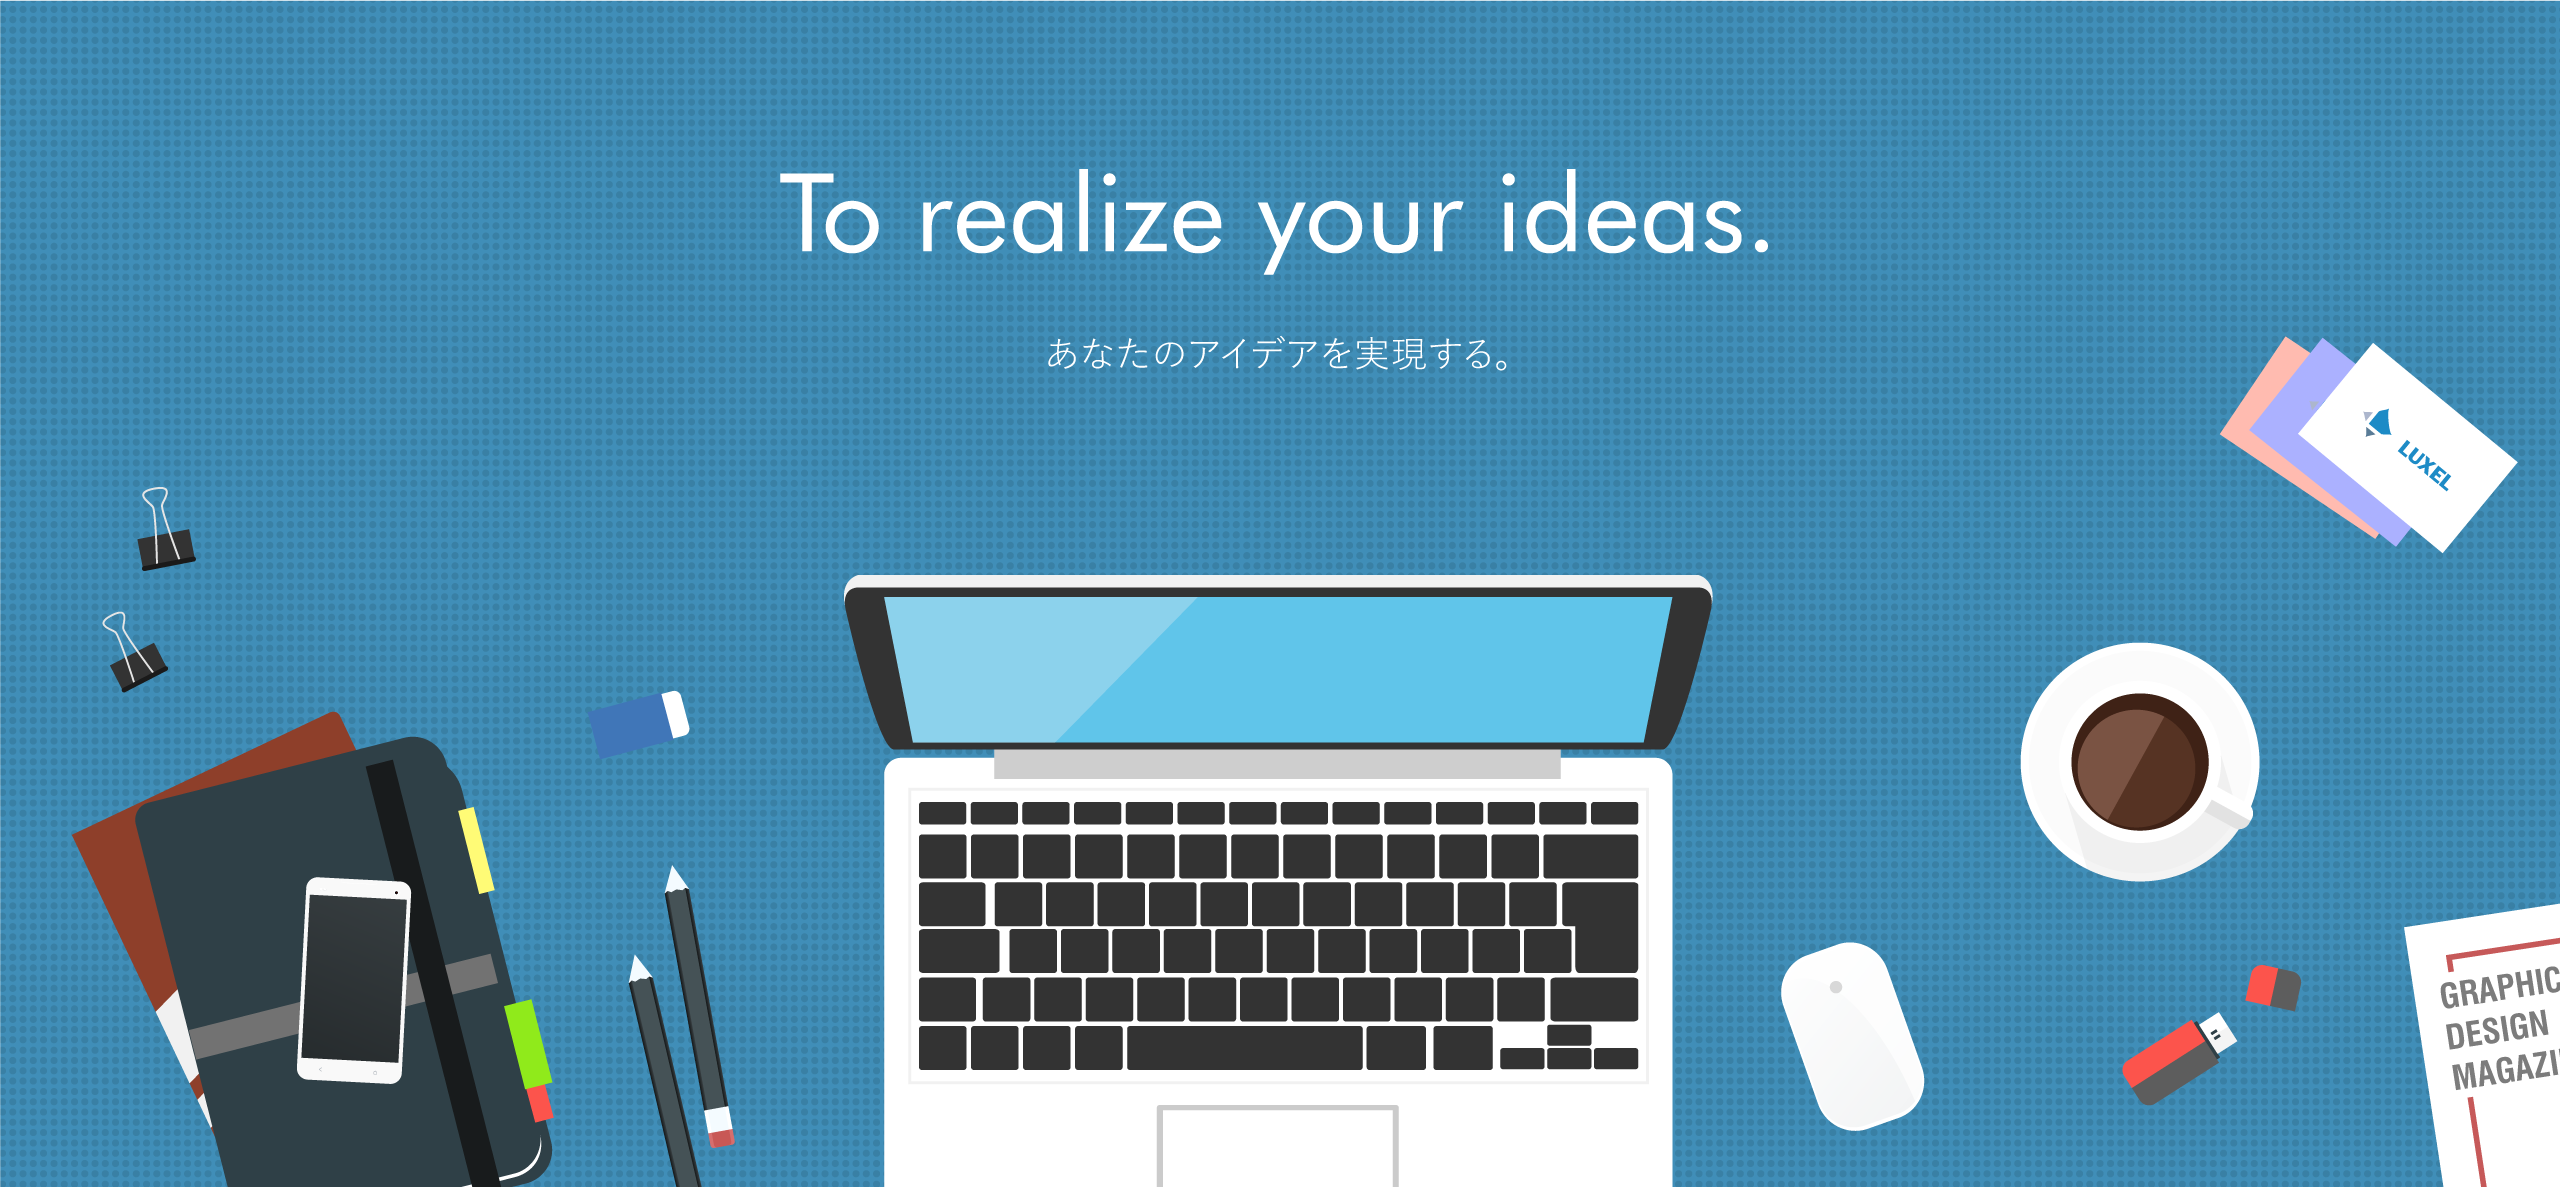
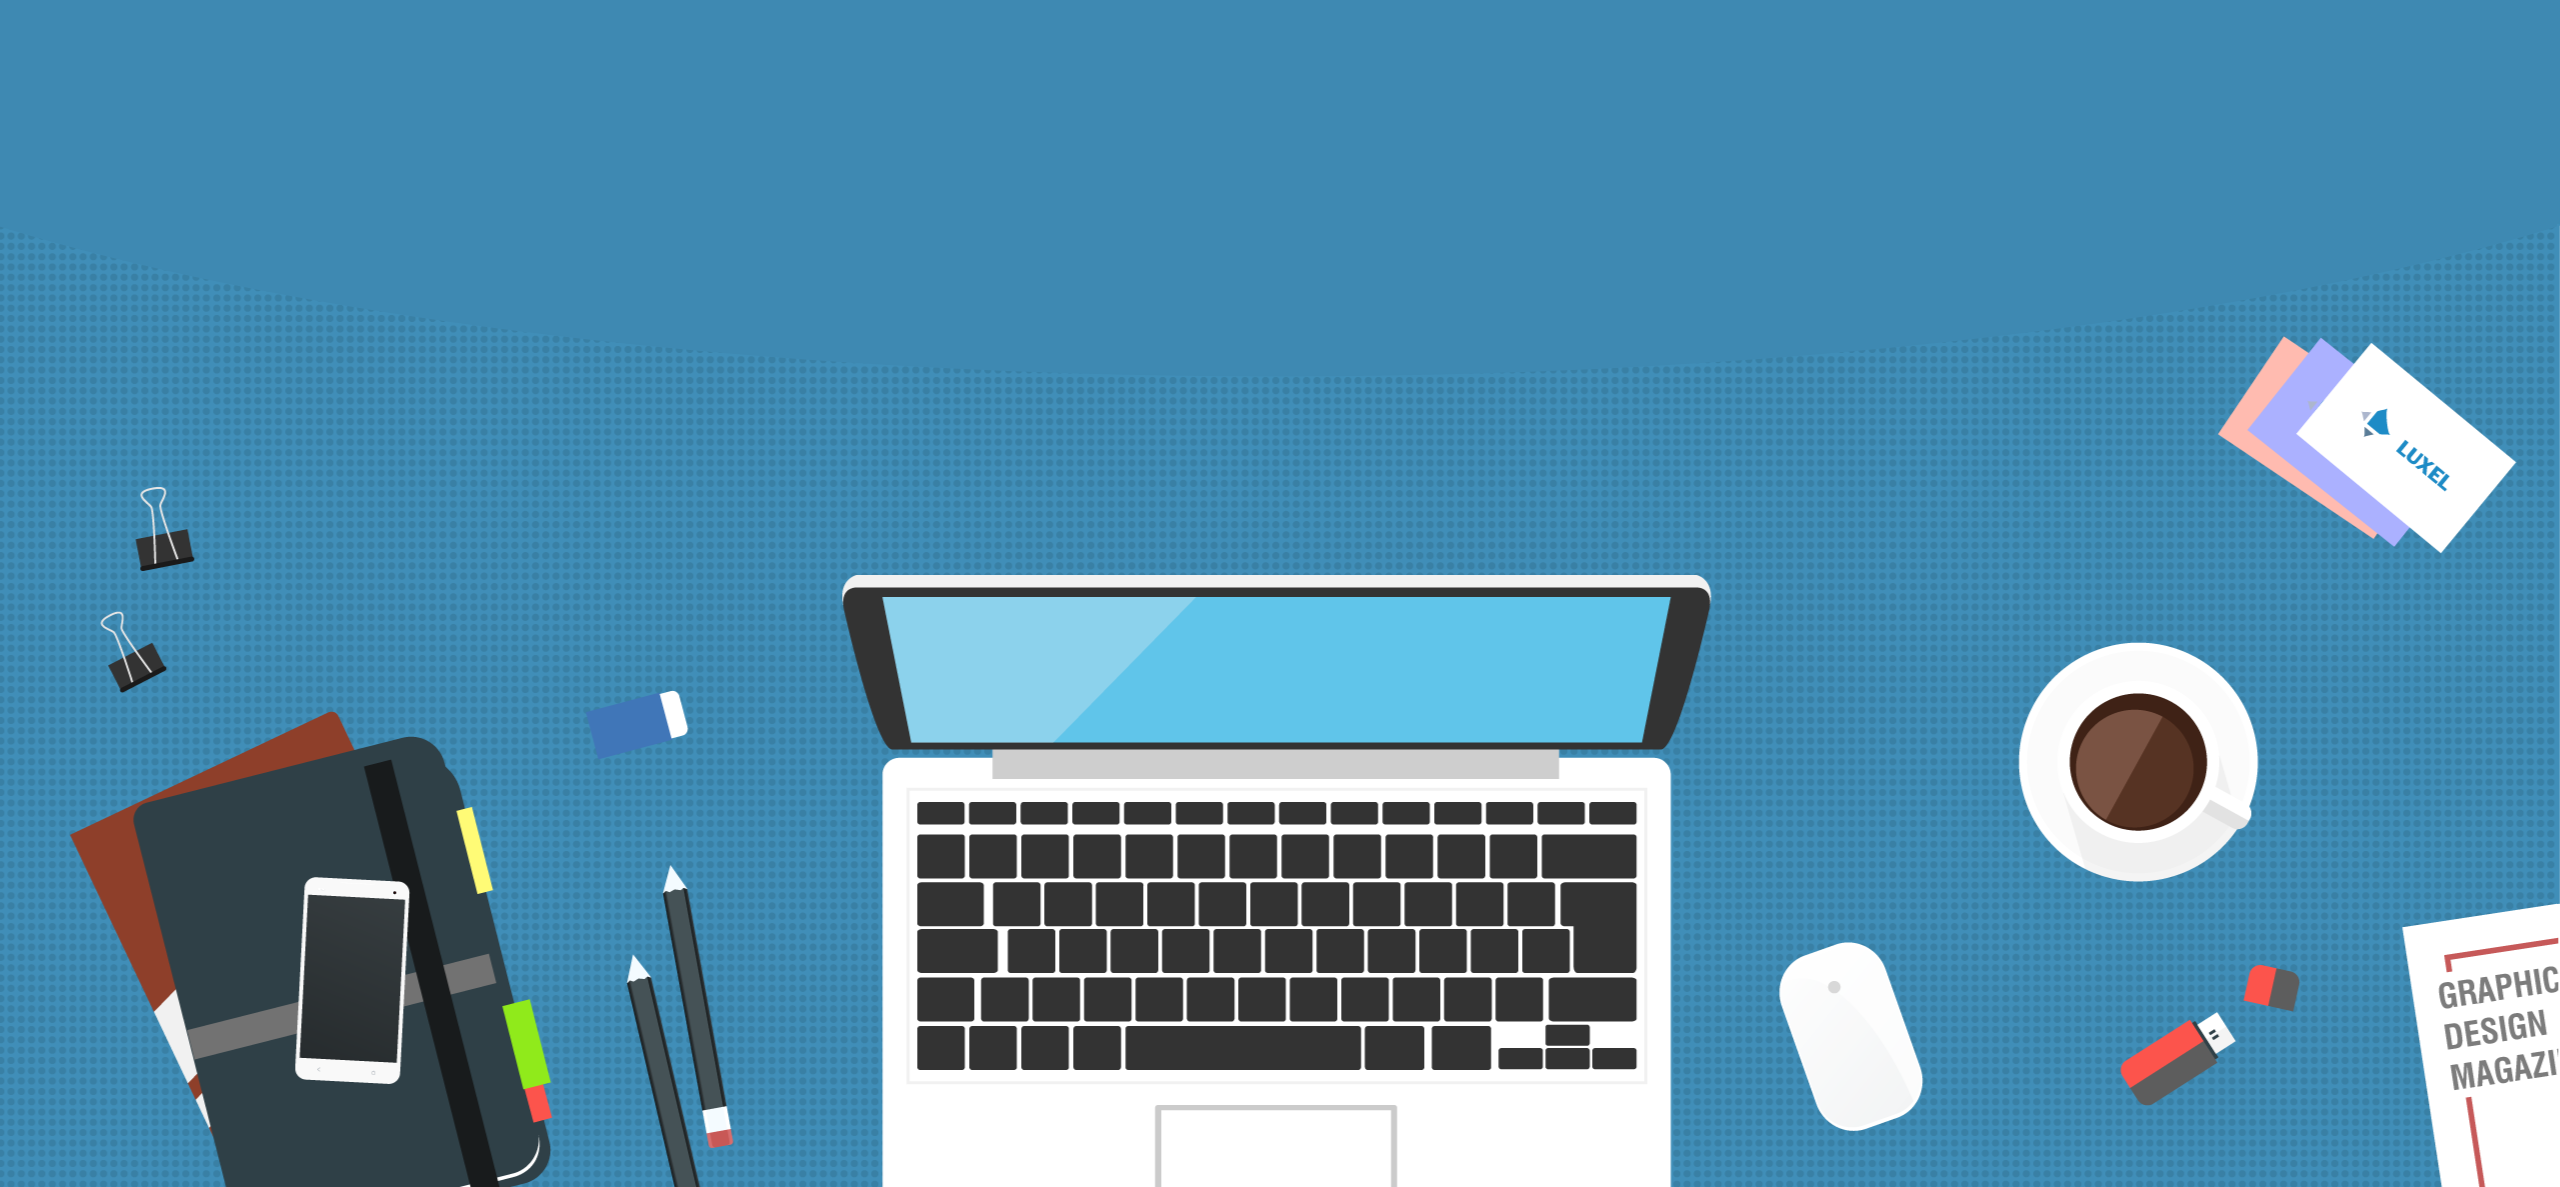
separate text in main image

diff --git a/main.js b/main.js
@@ -59,6 +59,25 @@ window.addEventListener('scroll', () => {
 // GSAP ANIMATIONS
 // ===============================
 
+// ロゴ上テキストのGSAPアニメーション
+if (window.gsap) {
+  gsap.from('.logo-en', {
+    y: -80,
+    opacity: 0,
+    duration: 2.2,
+    ease: 'power1.out',
+    delay: 0.1
+  });
+  
+  gsap.from('.logo-ja', {
+    y: 20,
+    opacity: 0,
+    duration: 2.2,
+    ease: 'power3.out',
+    delay: 0.5
+  });
+}
+
 // Hero section animations
 gsap.timeline()
   .from('.hero-title', {
@@ -249,6 +268,35 @@ gsap.timeline({
     opacity: 0,
     ease: 'power3.out'
   }, '-=0.5');
+
+  // ===============================
+  // SCROLL TO TOP BUTTON
+  // ===============================
+  const scrollToTopBtn = document.getElementById('scrollToTopBtn');
+  const homeSection = document.getElementById('home');
+
+  if (scrollToTopBtn && homeSection) {
+    const homeSectionHeight = homeSection.offsetHeight;
+
+    // Show or hide button based on scroll position
+    window.addEventListener('scroll', () => {
+      // homeセクションの高さより多くスクロールしたらボタンを表示
+      if (window.scrollY > homeSectionHeight) {
+        scrollToTopBtn.classList.add('show');
+      } else {
+        scrollToTopBtn.classList.remove('show');
+      }
+    });
+
+    // Smooth scroll to top on click
+    scrollToTopBtn.addEventListener('click', (e) => {
+      e.preventDefault();
+      window.scrollTo({
+        top: 0,
+        behavior: 'smooth'
+      });
+    });
+  }
 
 // ===============================
 // STATISTICS COUNTER ANIMATION
@@ -445,41 +493,13 @@ document.addEventListener('DOMContentLoaded', function() {
     });
   }
 
-  // ===============================
-  // SCROLL TO TOP BUTTON
-  // ===============================
-  const scrollToTopBtn = document.getElementById('scrollToTopBtn');
-  const homeSection = document.getElementById('home');
-
-  if (scrollToTopBtn && homeSection) {
-    const homeSectionHeight = homeSection.offsetHeight;
-
-    // Show or hide button based on scroll position
-    window.addEventListener('scroll', () => {
-      // homeセクションの高さより多くスクロールしたらボタンを表示
-      if (window.scrollY > homeSectionHeight) {
-        scrollToTopBtn.classList.add('show');
-      } else {
-        scrollToTopBtn.classList.remove('show');
-      }
-    });
-
-    // Smooth scroll to top on click
-    scrollToTopBtn.addEventListener('click', (e) => {
-      e.preventDefault();
-      window.scrollTo({
-        top: 0,
-        behavior: 'smooth'
-      });
-    });
-  }
 });
-
+  
 // ===============================
 // ACCESSIBILITY ENHANCEMENTS
 // ===============================
 
-// Keyboard navigation for custom elements
+// Keyboard navigation for custom elements  
 document.addEventListener('keydown', (e) => {
   if (e.key === 'Enter' || e.key === ' ') {
     const target = e.target;

diff --git a/index.html b/index.html
@@ -27,7 +27,10 @@
     <nav class="navbar navbar-expand-lg navbar-light fixed-top">
       <div class="container">
         <a class="navbar-brand fw-bold" href="#home">
-          <img src="./images/logo.png" alt="LUXEL Logo" class="logo-img"><span class="logo-text">LUXEL</span>
+          <div class="logo-area">
+            <img src="./images/logo.png" alt="LUXEL Logo" class="logo-img">
+            <span class="logo-text">LUXEL</span>
+          </div>
         </a>
         <button class="navbar-toggler" type="button" data-bs-toggle="collapse" data-bs-target="#navbarNav" aria-label="メニュー">
           <span class="navbar-toggler-icon"></span>
@@ -58,6 +61,10 @@
     <section id="home" class="hero-section p-0" style="position:relative;">
       <div class="hero-image-full">
         <img src="images/main_visual.png" alt="メインビジュアル" class="main-visual-img" />
+      </div>
+      <div class="logo-overlay-text">
+        <div class="logo-en">To realize your ideas.</div>
+        <div class="logo-ja">あなたのアイデアを実現する。</div>
       </div>
     </section>
 

diff --git a/style.css b/style.css
@@ -221,6 +221,40 @@
     0%, 100% { transform: translateY(0) rotate(45deg); }
     50% { transform: translateY(10px) rotate(45deg); }
   }
+
+  .hero-image-full {
+    position: relative;
+  }
+  
+  .logo-overlay-text {
+    position: absolute;
+    top: 10%;
+    left: 0;
+    right: 0;
+    margin: 0 auto;
+    width: 100%;
+    text-align: center;
+    z-index: 2;
+    pointer-events: none;
+  }
+
+  .logo-en {
+    font-size: 2.5rem;
+    color: #fff;
+    font-weight: 400;
+    letter-spacing: 0.09em;
+    /* opacity: 0; */
+    transform: translateY(20px);
+    font-family: 'Montserrat';
+  }
+  .logo-ja {
+    font-size: 1.2rem;
+    color: #fff;
+    font-weight: 400;
+    margin-top: 0.2em;
+    /* opacity: 0; */
+    transform: translateY(20px);
+  }
   
   /* ===============================
      SECTIONS
@@ -1107,5 +1141,12 @@ body, html {
     width: 100%;
     min-width: 0;
     max-width: 100vw;
+  }
+
+  .logo-en {
+    font-size: 1.5rem;
+  }
+  .logo-ja {
+    font-size: 1rem;
   }
 }
